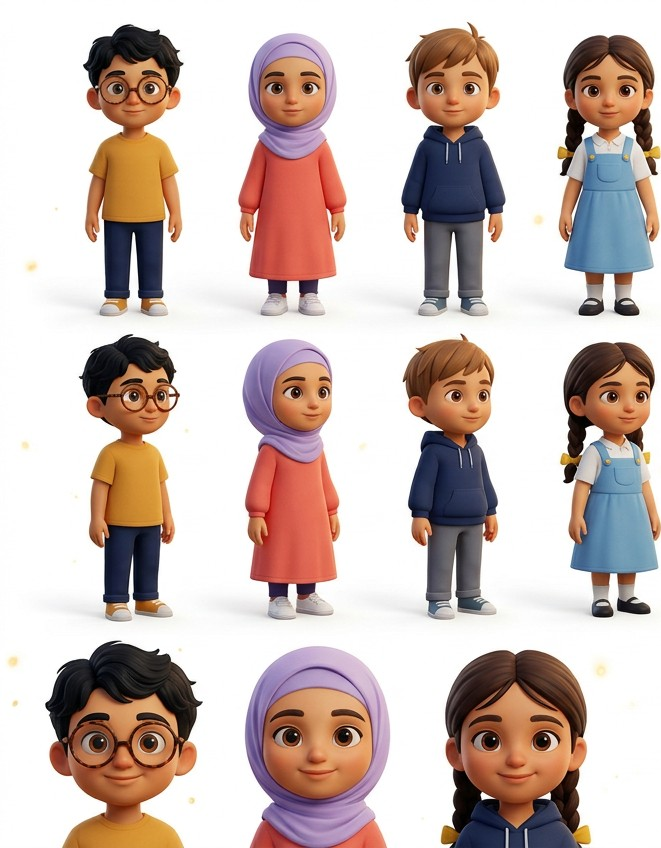
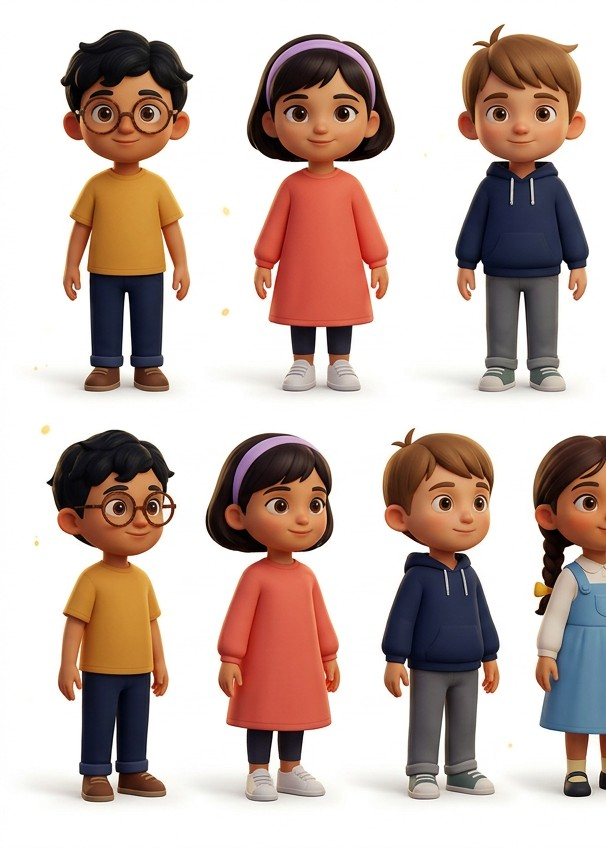
No hijab on the little girls in our own art: the classmates' fixed sheets (a lavender headband now), the theme cards
Tareq: the children are small; the hijab stays the parents' choice for their own child's book only.

diff --git a/docs/image-prompts.md b/docs/image-prompts.md
@@ -217,7 +217,7 @@ Character reference sheet on a pure white background: the same character shown f
 - **ملاحظة:** أولوية 1
 
 ```text
-Group character reference sheet on a pure white background, exactly four different children and no one else: top row, the four children full-body from the front, left to right in the order listed; middle row, the same four in the same order in three-quarter view; bottom row, the same four smiling head close-ups in the same order. Twelve figures in total, never a fifth child or a repeated one. Even neutral lighting; each child identical in every view; no scenery. Four kindergarten classmates aged 5–6 standing in a row, all with distinct, consistent designs: (1) a boy with short wavy black hair and round tortoiseshell glasses, mustard-yellow t-shirt and navy trousers; (2) a girl with a neat lavender hijab, coral long-sleeved dress and white sneakers; (3) a boy with straight light-brown hair and a cowlick, navy hoodie and gray trousers; (4) a girl with two neat low dark-brown braids tied with yellow ribbons, sky-blue pinafore dress over a white shirt. All four are Palestinian / Levantine Arab children: light-olive to warm-tan skin and dark-brown to black hair, with natural variety within that range. Style: polished 3D animated-film look — stylized proportions (slightly large head, big expressive eyes), soft subsurface-scattering skin, cinematic rim light and gentle volumetric glow, soft global illumination, rich saturated warm palette (night blue, honey gold, sage green, coral), clean stylized materials (soft fabric, matte painted wood, smooth limestone), shallow depth of field, a few floating golden light particles. Warm and family-friendly; not photorealistic, not glossy plastic dolls; do not imitate any existing film, studio, game or toy character. Absolutely no text, letters, numbers, calligraphy, signs, labels, logos, brand marks, watermarks or signatures anywhere in the image.
+Group character reference sheet on a pure white background, exactly four different children and no one else: top row, the four children full-body from the front, left to right in the order listed; middle row, the same four in the same order in three-quarter view; bottom row, the same four smiling head close-ups in the same order. Twelve figures in total, never a fifth child or a repeated one. Even neutral lighting; each child identical in every view; no scenery. Four kindergarten classmates aged 5–6 standing in a row, all with distinct, consistent designs: (1) a boy with short wavy black hair and round tortoiseshell glasses, mustard-yellow t-shirt and navy trousers; (2) a girl with a short dark bob and a lavender headband, coral long-sleeved dress and white sneakers; (3) a boy with straight light-brown hair and a cowlick, navy hoodie and gray trousers; (4) a girl with two neat low dark-brown braids tied with yellow ribbons, sky-blue pinafore dress over a white shirt. All four are Palestinian / Levantine Arab children: light-olive to warm-tan skin and dark-brown to black hair, with natural variety within that range. Style: polished 3D animated-film look — stylized proportions (slightly large head, big expressive eyes), soft subsurface-scattering skin, cinematic rim light and gentle volumetric glow, soft global illumination, rich saturated warm palette (night blue, honey gold, sage green, coral), clean stylized materials (soft fabric, matte painted wood, smooth limestone), shallow depth of field, a few floating golden light particles. Warm and family-friendly; not photorealistic, not glossy plastic dolls; do not imitate any existing film, studio, game or toy character. Absolutely no text, letters, numbers, calligraphy, signs, labels, logos, brand marks, watermarks or signatures anywhere in the image.
 ```
 
 ### C6 · `C6-classmates-watercolor.png`
@@ -227,7 +227,7 @@ Group character reference sheet on a pure white background, exactly four differe
 - **ملاحظة:** أولوية 1 · استعمل C5 مرجعًا
 
 ```text
-Group character reference sheet on a pure white background, exactly four different children and no one else: top row, the four children full-body from the front, left to right in the order listed; middle row, the same four in the same order in three-quarter view; bottom row, the same four smiling head close-ups in the same order. Twelve figures in total, never a fifth child or a repeated one. Even neutral lighting; each child identical in every view; no scenery. Four kindergarten classmates aged 5–6 standing in a row, all with distinct, consistent designs: (1) a boy with short wavy black hair and round tortoiseshell glasses, mustard-yellow t-shirt and navy trousers; (2) a girl with a neat lavender hijab, coral long-sleeved dress and white sneakers; (3) a boy with straight light-brown hair and a cowlick, navy hoodie and gray trousers; (4) a girl with two neat low dark-brown braids tied with yellow ribbons, sky-blue pinafore dress over a white shirt. All four are Palestinian / Levantine Arab children: light-olive to warm-tan skin and dark-brown to black hair, with natural variety within that range. Style: premium watercolor-and-gouache children's picture-book painting on warm textured paper — rich saturated color, deep indigo and violet shadows, glowing honey-gold highlights, strong contrast, golden-hour or moonlit light, soft wet edges with crisp detail on faces and hands, visible paper grain, atmospheric depth with soft foreground framing elements. No flat pale backgrounds, no harsh black outlines, no 3D-render look, no anime. Absolutely no text, letters, numbers, calligraphy, signs, labels, logos, brand marks, watermarks or signatures anywhere in the image.
+Group character reference sheet on a pure white background, exactly four different children and no one else: top row, the four children full-body from the front, left to right in the order listed; middle row, the same four in the same order in three-quarter view; bottom row, the same four smiling head close-ups in the same order. Twelve figures in total, never a fifth child or a repeated one. Even neutral lighting; each child identical in every view; no scenery. Four kindergarten classmates aged 5–6 standing in a row, all with distinct, consistent designs: (1) a boy with short wavy black hair and round tortoiseshell glasses, mustard-yellow t-shirt and navy trousers; (2) a girl with a short dark bob and a lavender headband, coral long-sleeved dress and white sneakers; (3) a boy with straight light-brown hair and a cowlick, navy hoodie and gray trousers; (4) a girl with two neat low dark-brown braids tied with yellow ribbons, sky-blue pinafore dress over a white shirt. All four are Palestinian / Levantine Arab children: light-olive to warm-tan skin and dark-brown to black hair, with natural variety within that range. Style: premium watercolor-and-gouache children's picture-book painting on warm textured paper — rich saturated color, deep indigo and violet shadows, glowing honey-gold highlights, strong contrast, golden-hour or moonlit light, soft wet edges with crisp detail on faces and hands, visible paper grain, atmospheric depth with soft foreground framing elements. No flat pale backgrounds, no harsh black outlines, no 3D-render look, no anime. Absolutely no text, letters, numbers, calligraphy, signs, labels, logos, brand marks, watermarks or signatures anywhere in the image.
 ```
 
 ### C7 · `C7-qamour-cartoon.png`
